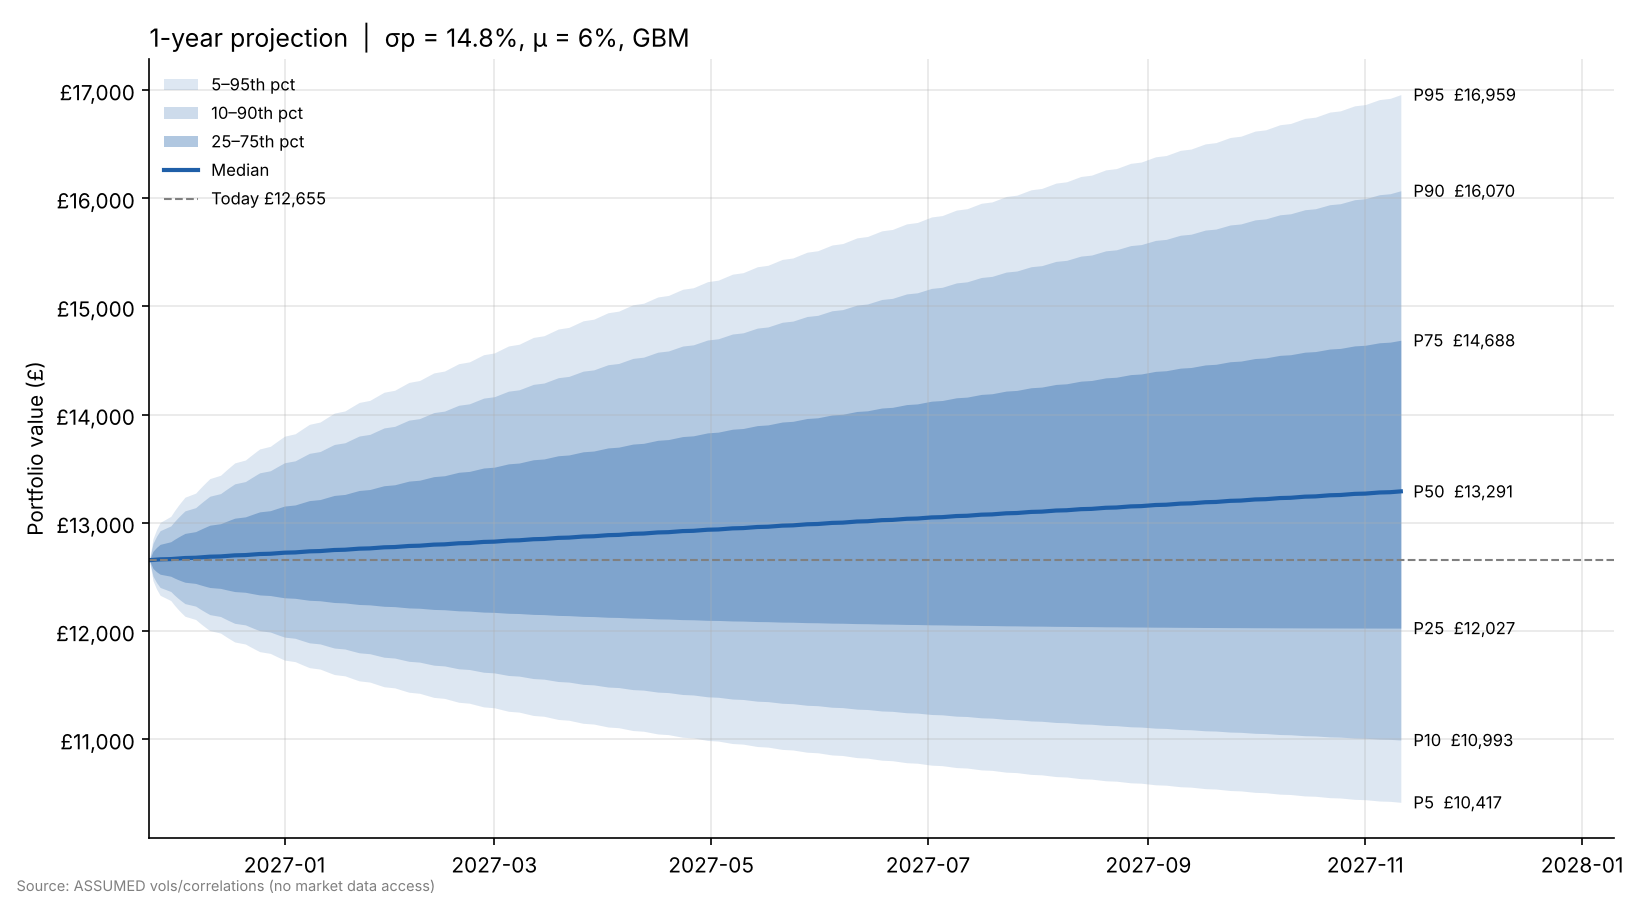
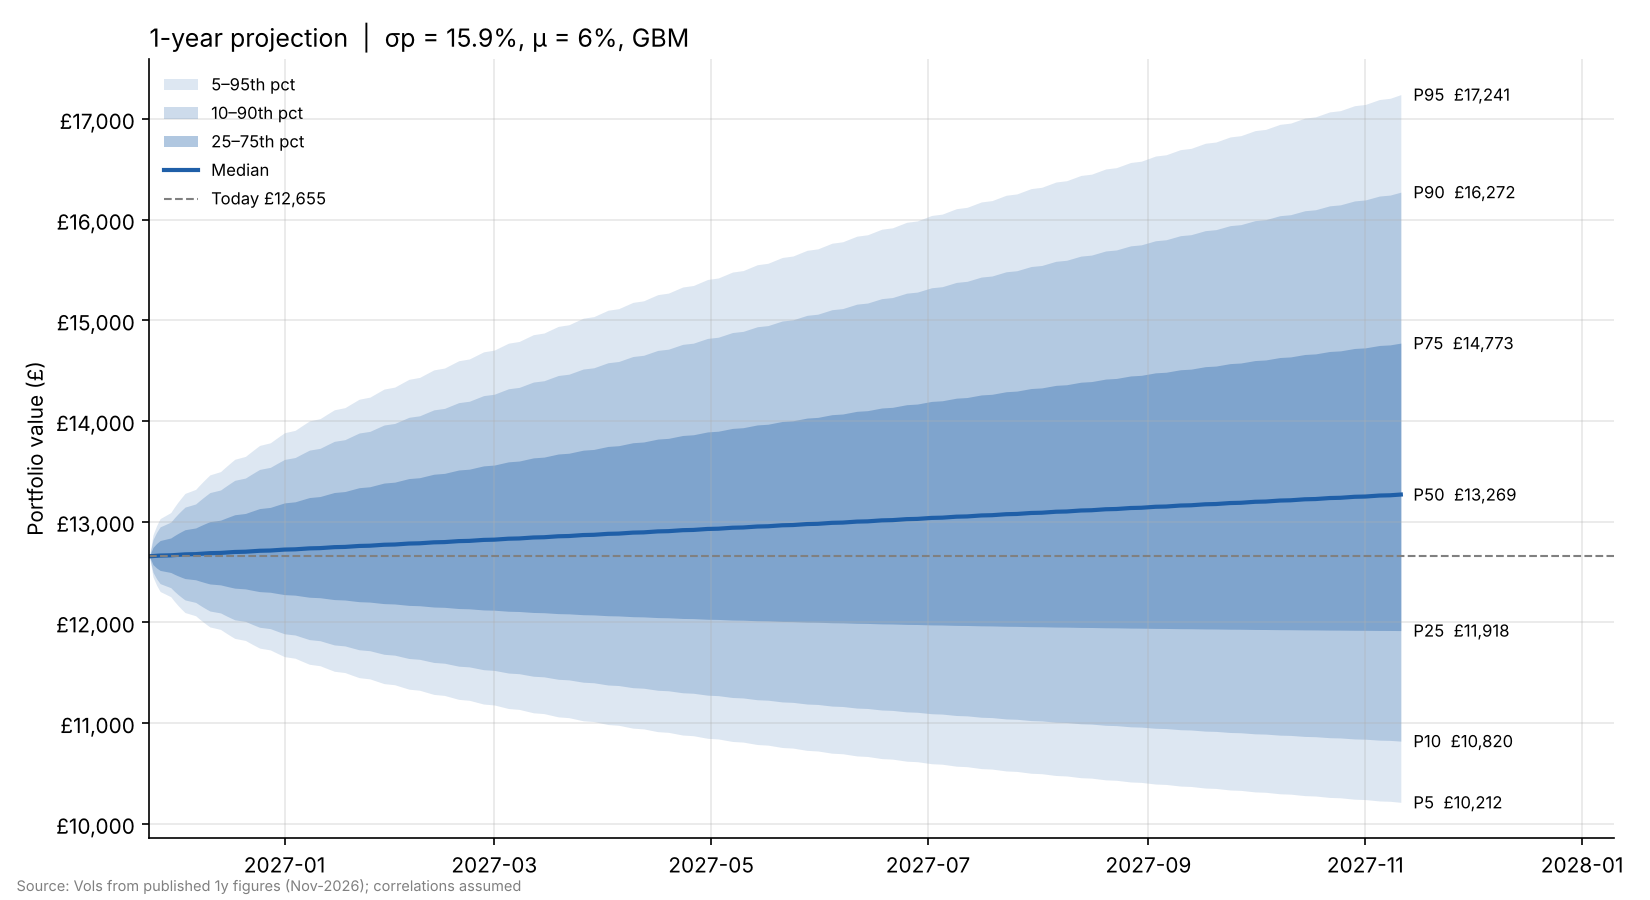
Calibrate vols to published Nov-2026 1y figures
Claude-Session: https://claude.ai/code/session_01WNRUXjhvPJe4YD8pjV2pZN

diff --git a/portfolio_var/var_fan.py b/portfolio_var/var_fan.py
@@ -28,9 +28,12 @@ TICKERS = {"MCD": "MCD", "VUAG": "VUAG.L", "SSLN": "SSLN.L", "BTC": "BTC-GBP",
            "GOOGL": "GOOGL", "SGLN": "SGLN.L"}
 USD_ASSETS = ["MCD", "GOOGL"]
 
-# ---- Fallback assumptions: annualised vol in GBP terms, ~3y realised regime ----
-VOL_ASSUMED = pd.Series({"MCD": .19, "VUAG": .15, "SSLN": .30, "BTC": .50,
-                         "GOOGL": .30, "SGLN": .16})
+# ---- Fallback: trailing ~1y vols from published sources (Nov-2026), GBP-adjusted ----
+# BTC 43% (Glassnode 1y realised), MCD 19% USD (Trefis 12m) +FX -> 20%,
+# GOOGL 32% (Trefis 1y realised) +FX -> 33%, S&P ~15-18% (VIX avg 18) -> 16%,
+# silver ~37% long-run, 2026 elevated -> 40%, gold Q1 >20%, spiked >50% mid-year -> 22%
+VOL_ASSUMED = pd.Series({"MCD": .20, "VUAG": .16, "SSLN": .40, "BTC": .43,
+                         "GOOGL": .33, "SGLN": .22})
 CORR_ASSUMED = pd.DataFrame(
     #  MCD   VUAG  SSLN  BTC   GOOGL SGLN
     [[1.00, 0.40, 0.08, 0.08, 0.25, 0.08],
@@ -93,7 +96,7 @@ def main():
         r = None
         vol, corr = VOL_ASSUMED[H.index], CORR_ASSUMED.loc[H.index, H.index]
         cov_d = (np.outer(vol, vol) * corr.values) / TRADING_DAYS
-        src = "ASSUMED vols/correlations (no market data access)"
+        src = "Vols from published 1y figures (Nov-2026); correlations assumed"
 
     V = H.sum()
     w = (H / V).values
